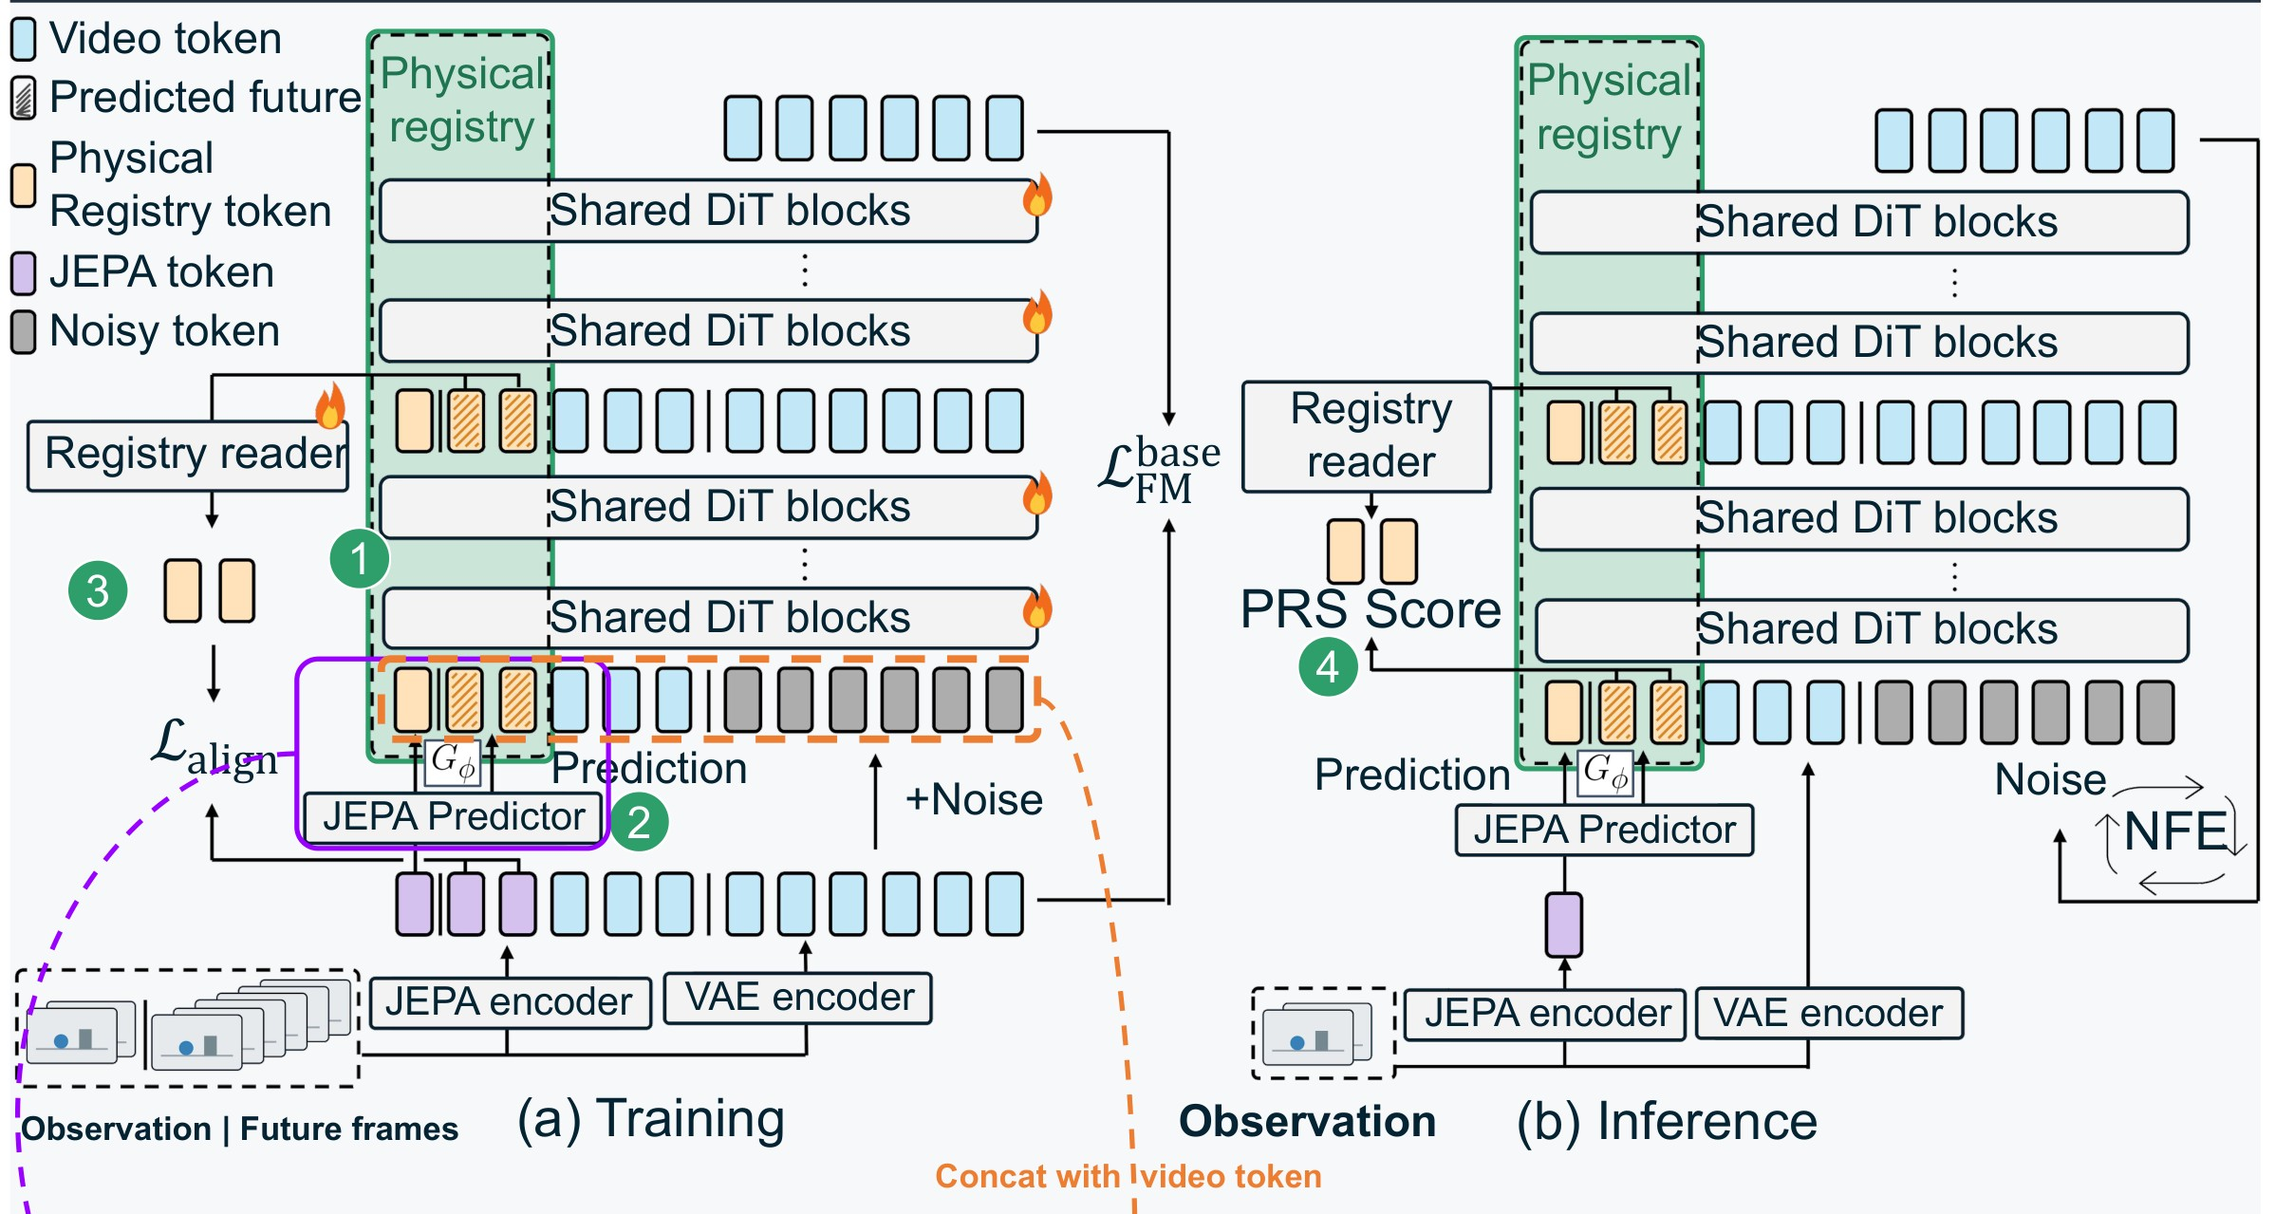
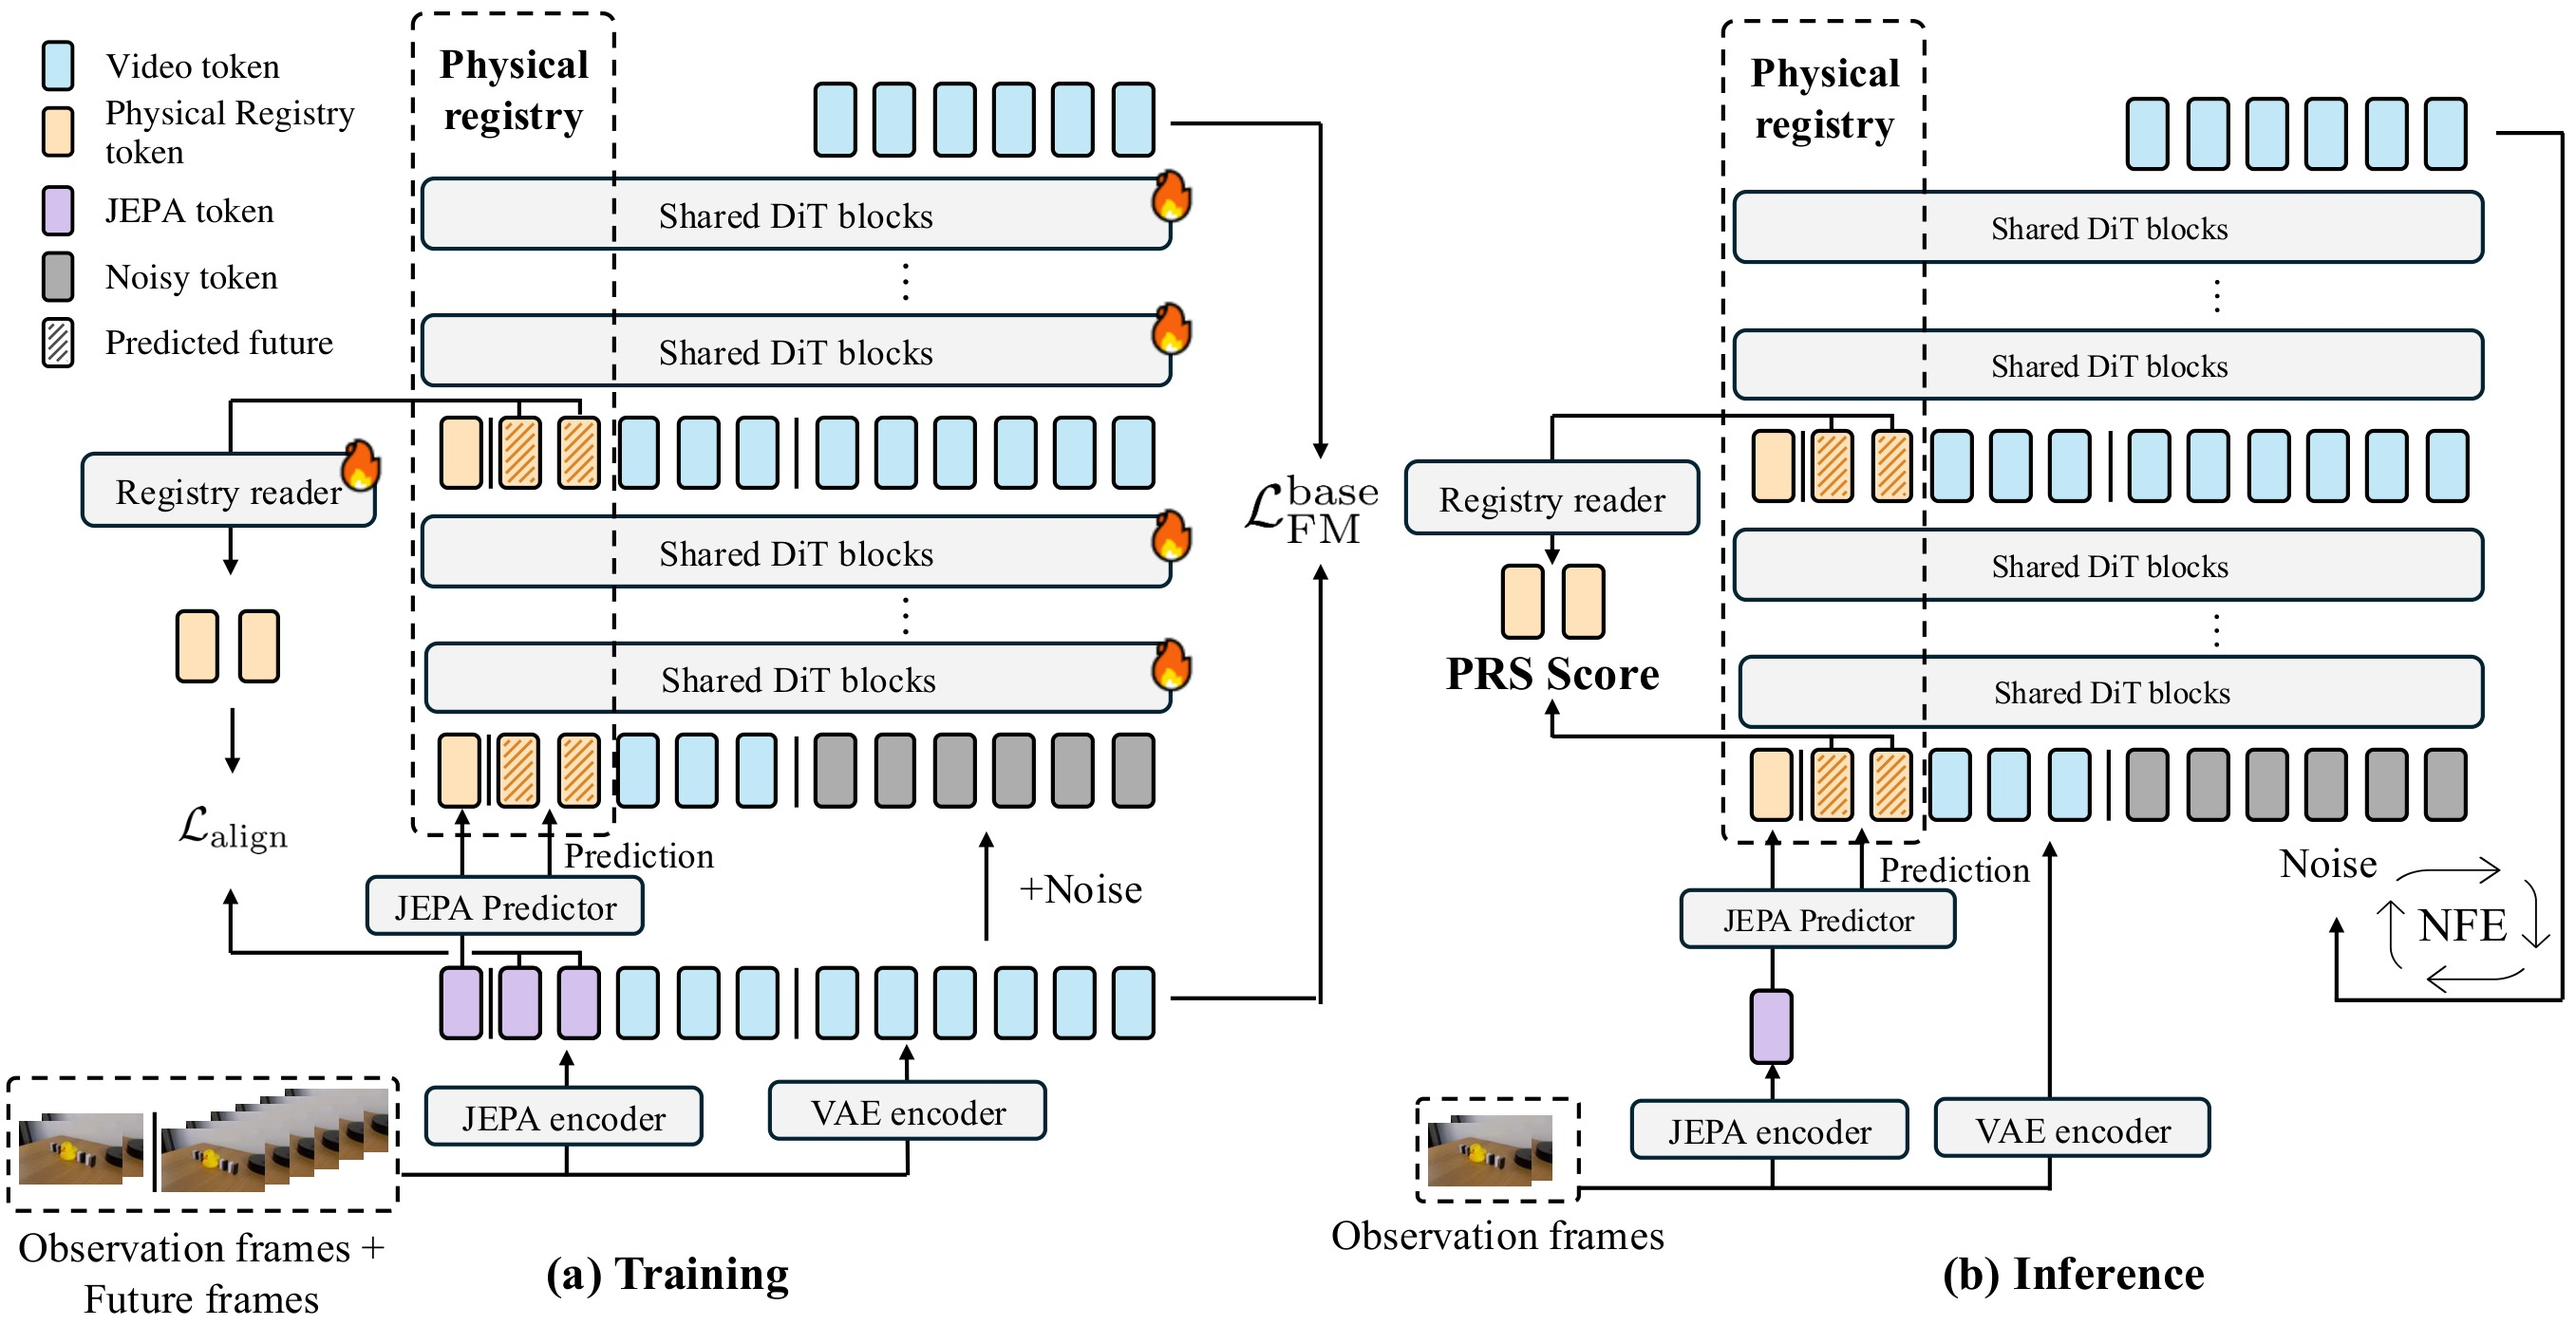
Use paper figures for method overview and PRS; stack motion-transfer clips on phones

Changed region(s): [[0.0, 0.0, 1.0, 1.0]]

diff --git a/index.html b/index.html
@@ -127,11 +127,12 @@
   .xmark path { stroke: #f87171; stroke-width: 3; stroke-linecap: round; }
   .arrow-key { display: flex; flex-wrap: wrap; gap: 6px 18px; font-size: 13px; color: var(--muted); padding: 12px 4px 0; }
   .arrow-key b { color: var(--ink); font-weight: 600; }
+  /* phones: one clip per row so A and B stay large enough; the arrow key below explains the links */
   @media (max-width: 760px) {
-    .xfer { grid-template-columns: minmax(0, 1fr) minmax(0, 1fr); grid-template-rows: auto 64px auto; gap: 0 12px; }
-    .xfer .panel.src { grid-column: 1 / span 2; grid-row: 1; width: 78%; justify-self: center; }
-    .xfer .panel.base { grid-column: 1; grid-row: 3; }
-    .xfer .panel.ours { grid-column: 2; grid-row: 3; }
+    .xfer { grid-template-columns: minmax(0, 1fr); grid-template-rows: none; gap: 16px 0; }
+    .xfer .panel.src, .xfer .panel.base, .xfer .panel.ours { grid-column: 1; grid-row: auto; width: 100%; }
+    .xfer svg.arrows { display: none; }
+    .xfer .panel .tag { top: 8px; left: 8px; font-size: 12px; padding: 3px 9px; white-space: nowrap; }
   }
 
   .controls { display: flex; align-items: center; gap: 12px; margin-top: 14px; padding: 0 4px; }
@@ -360,7 +361,7 @@
     <div class="sec-kicker">Method</div>
     <h2>Forecast-initialized slots co-evolve with video tokens</h2>
     <p class="sub">Physical Registry represents the forecast in a fixed set of dedicated registry slots that carry predictive features alongside the video latent rather than within it.</p>
-    <figure class="fig"><img src="assets/img/method.jpg" width="2397" height="1279" loading="lazy" decoding="async"
+    <figure class="fig"><img src="assets/img/method.jpg" width="2713" height="1396" loading="lazy" decoding="async"
       alt="Method overview. (a) Training: a JEPA encoder and predictor produce a forecast that initializes Physical Registry tokens; the registry tokens are concatenated with video tokens and pass through shared DiT blocks; a registry reader is supervised with an alignment loss while the video stream keeps the flow-matching loss. (b) Inference: the registry is forecast-initialized from the observation and the registry reader produces readouts for the PRS score."></figure>
     <div class="steps">
       <div class="box"><h3><span class="num">1</span>Dedicated &amp; co-evolving</h3><p>Temporally grounded registry slots inside the video DiT co-evolve with video tokens through the shared DiT blocks.</p></div>
@@ -399,7 +400,7 @@
     <div class="sec-kicker">Inference</div>
     <h2>Physical Registry Selector (PRS)</h2>
     <p class="sub">Select a future from registry states before full denoising. Candidates share the same forecast initialization, are ranked from registry readouts over a <i>K</i>-step prefix, and only the selected trajectory continues for the remaining <i>D</i>&minus;<i>K</i> steps.</p>
-    <figure class="fig"><img src="assets/img/prs.jpg" width="1876" height="512" loading="lazy" decoding="async"
+    <figure class="fig"><img src="assets/img/prs.jpg" width="2499" height="915" loading="lazy" decoding="async"
       alt="PRS in three stages: 1. generate candidate prefixes from multiple noise samples for K denoising steps; 2. read out the registry with q_psi and compare it with the shared forecast by cosine similarity; 3. pick the arg max candidate and finish it for D minus K steps while the others stop."></figure>
     <p class="claim" style="margin-top:28px"><em>2.84&ndash;4.06&times;</em> end-to-end speedup over post-hoc best-of-N selection</p>
     <p class="sub">At default PRS settings: <b class="up">+5.6&ndash;15.9%</b> I2V over each backbone's own Plain baseline (4 backbones).</p>
